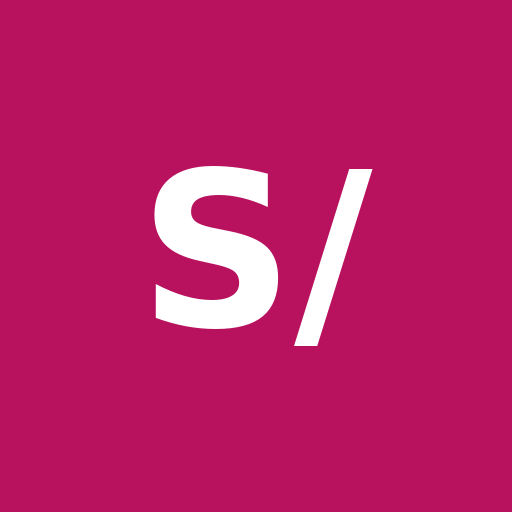
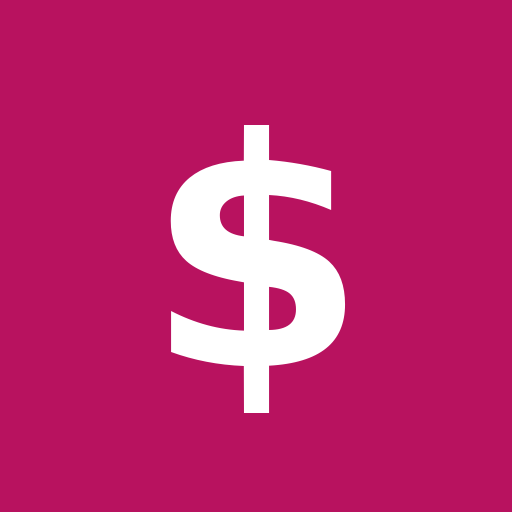
Add files via upload

Changed region(s): [[0.2812, 0.2188, 0.75, 0.8125]]

diff --git a/index.html b/index.html
@@ -320,7 +320,7 @@ input:focus,select:focus,textarea:focus{border-color:var(--accent);outline:0;box
 <div class="app">
   <header class="top">
     <div class="brand">
-      <span class="mark" aria-hidden="true">S/</span>
+      <span class="mark" aria-hidden="true">$</span>
       <div>
         <h1>Generador de Proformas</h1>
         <p class="tag">Para ventas por catálogo: Ésika, Cyzone, L'Bel y más</p>
@@ -344,10 +344,10 @@ input:focus,select:focus,textarea:focus{border-color:var(--accent);outline:0;box
     <div class="hi"><div><h2 id="hiName">¡Hola! 👋</h2><p class="hint">Qué bueno verte de nuevo</p></div><button class="avatar" data-tab="negocio" id="hiAv" aria-label="Mi negocio">S</button></div>
     <section class="panel sum"><h2 id="sumMonth">Resumen del mes</h2>
       <div class="sumrow"><span>Proformas creadas</span><strong id="sumN">0</strong></div>
-      <div class="sumrow"><span>Total cotizado</span><strong id="sumT">S/ 0.00</strong></div></section>
+      <div class="sumrow"><span>Total cotizado</span><strong id="sumT">$0</strong></div></section>
     <div class="hero"><h2>Belleza que te hace brillar</h2><p>Crea tus proformas de forma rápida y profesional.</p><button class="btn" data-tab="proforma">Crear proforma</button></div>
     <div class="quick"><button class="q" data-tab="catalogo"><i style="background:#ec407a"><svg viewBox="0 0 24 24" aria-hidden="true"><path d="M5 4h6a3 3 0 0 1 3 3v13a2 2 0 0 0-2-2H5zM19 4h-5v14"/></svg></i>Productos</button><button class="q" data-tab="historial"><i style="background:#26b5a0"><svg viewBox="0 0 24 24" aria-hidden="true"><circle cx="12" cy="12" r="9"/><path d="M12 7v5l3 2"/></svg></i>Mis proformas</button><button class="q" data-tab="clientes"><i style="background:#8e5bd6"><svg viewBox="0 0 24 24" aria-hidden="true"><circle cx="12" cy="8" r="4"/><path d="M4 21c0-4 4-6 8-6s8 2 8 6"/></svg></i>Clientes</button><button class="q" data-tab="negocio"><i style="background:#f5a623"><svg viewBox="0 0 24 24" aria-hidden="true"><circle cx="12" cy="12" r="3"/><path d="M12 3v3M12 18v3M3 12h3M18 12h3M5.6 5.6l2.1 2.1M16.3 16.3l2.1 2.1M18.4 5.6l-2.1 2.1M7.7 16.3l-2.1 2.1"/></svg></i>Ajustes</button></div>
-    <section class="panel"><h2>Marcas</h2><div class="brands"><button data-brandgo="Ésika">Ésika</button><button data-brandgo="Cyzone">Cyzone</button><button data-brandgo="L'Bel">L'Bel</button><button data-brandgo="Avon">Avon</button><button data-brandgo="Natura">Natura</button><button data-brandgo="Yanbal">Yanbal</button></div></section>
+    <section class="panel"><h2>Marcas</h2><div class="brands"><button data-brandgo="Ésika">Ésika</button><button data-brandgo="Cyzone">Cyzone</button><button data-brandgo="L'Bel">L'Bel</button><button data-brandgo="Avon">Avon</button><button data-brandgo="Natura">Natura</button></div></section>
     <section class="panel"><h2>¿Listo para generar tu proforma?</h2><p class="hint">Agrega productos, elige al cliente y descarga el PDF en pocos pasos.</p><button class="btn primary" data-tab="proforma">Empezar</button></section>
   </section>
   <section class="tabpane" id="tab-proforma" data-step="1" hidden>
@@ -371,7 +371,7 @@ input:focus,select:focus,textarea:focus{border-color:var(--accent);outline:0;box
           <div class="grid">
             <label class="field"><span>Nombre</span><input type="text" data-bind="draft.client.name" autocomplete="off"></label>
             <label class="field"><span>Celular (WhatsApp)</span><input type="tel" inputmode="tel" data-bind="draft.client.phone" placeholder="987654321"></label>
-            <label class="field"><span>DNI o RUC (opcional)</span><input type="text" inputmode="numeric" data-bind="draft.client.doc"></label>
+            <label class="field"><span>RUT (opcional)</span><input type="text" inputmode="text" data-bind="draft.client.doc"></label>
           </div>
           <label class="field"><span>Dirección o zona de entrega</span><input type="text" data-bind="draft.client.address"></label>
           <div class="row-end"><button class="btn sm" data-act="save-client">Guardar en mis clientes</button></div>
@@ -391,10 +391,10 @@ input:focus,select:focus,textarea:focus{border-color:var(--accent);outline:0;box
           <h2>Descuento, envío y notas</h2>
           <div class="grid">
             <label class="field"><span>Descuento general (%)</span><input type="number" min="0" max="100" step="0.5" inputmode="decimal" data-bind="draft.globalDisc" placeholder="0"></label>
-            <label class="field"><span>Envío o delivery (S/)</span><input type="number" min="0" step="0.5" inputmode="decimal" data-bind="draft.shipping" placeholder="0.00"></label>
-            <label class="field"><span>Adelanto recibido (S/)</span><input type="number" min="0" step="0.5" inputmode="decimal" data-bind="draft.deposit" placeholder="0.00"></label>
+            <label class="field"><span>Envío o delivery (CLP)</span><input type="number" min="0" step="1" inputmode="numeric" data-bind="draft.shipping" placeholder="0"></label>
+            <label class="field"><span>Adelanto recibido (CLP)</span><input type="number" min="0" step="1" inputmode="numeric" data-bind="draft.deposit" placeholder="0"></label>
           </div>
-          <label class="check"><input type="checkbox" data-bind="draft.igv"><span>Mostrar el IGV (18%) incluido en el total. Los precios de catálogo ya lo incluyen.</span></label>
+          <label class="check"><input type="checkbox" data-bind="draft.igv"><span>Mostrar el IVA (19%) incluido en el total. Los precios de catálogo ya lo incluyen.</span></label>
           <label class="field"><span>Notas para el cliente</span><textarea data-bind="draft.notes"></textarea></label>
         </section>
       </div>
@@ -416,7 +416,7 @@ input:focus,select:focus,textarea:focus{border-color:var(--accent);outline:0;box
       <button class="btn" data-tab="historial">Ver mis proformas</button>
       <button class="btn ghost" data-act="new">Nueva proforma</button></div>
     <div class="actions">
-      <div class="arow"><div class="total-chip"><span>Total a pagar</span><strong id="totalChip">S/ 0.00</strong></div>
+      <div class="arow"><div class="total-chip"><span>Total a pagar</span><strong id="totalChip">$0</strong></div>
         <button class="btn" data-go="back" id="btnBack" hidden>Atrás</button>
         <button class="btn primary" data-go="next" id="btnNext">Siguiente</button></div>
       <div class="btns" hidden><button data-act="save" id="btnSave"></button>
@@ -433,7 +433,7 @@ input:focus,select:focus,textarea:focus{border-color:var(--accent);outline:0;box
       <div class="grid">
         <label class="field"><span>Marca</span><input type="text" id="np-brand" list="brands" placeholder="Ésika"></label>
         <label class="field"><span>Página o código</span><input type="text" id="np-code" placeholder="Pág. 24"></label>
-        <label class="field"><span>Precio de catálogo (S/)</span><input type="number" id="np-price" min="0" step="0.01" inputmode="decimal" placeholder="0.00"></label>
+        <label class="field"><span>Precio de catálogo (CLP)</span><input type="number" id="np-price" min="0" step="1" inputmode="numeric" placeholder="0"></label>
       </div>
       <label class="field"><span>Producto</span><input type="text" id="np-name" placeholder="Nombre del producto"></label>
       <div class="row-end"><button class="btn primary" data-act="add-product">Agregar producto</button></div>
@@ -453,7 +453,7 @@ input:focus,select:focus,textarea:focus{border-color:var(--accent);outline:0;box
       <div class="grid">
         <label class="field"><span>Nombre</span><input type="text" id="nc-name"></label>
         <label class="field"><span>Celular (WhatsApp)</span><input type="tel" id="nc-phone" inputmode="tel"></label>
-        <label class="field"><span>DNI o RUC (opcional)</span><input type="text" id="nc-doc" inputmode="numeric"></label>
+        <label class="field"><span>RUT (opcional)</span><input type="text" id="nc-doc" inputmode="text"></label>
       </div>
       <label class="field"><span>Dirección o zona de entrega</span><input type="text" id="nc-address"></label>
       <div class="row-end"><button class="btn primary" data-act="add-client">Agregar cliente</button></div>
@@ -490,17 +490,17 @@ input:focus,select:focus,textarea:focus{border-color:var(--accent);outline:0;box
         <label class="field"><span>Nombre del negocio</span><input type="text" data-bind="seller.business" placeholder="Ej. Belleza con Ana"></label>
         <label class="field"><span>Tu nombre</span><input type="text" data-bind="seller.name"></label>
         <label class="field"><span>Celular</span><input type="tel" inputmode="tel" data-bind="seller.phone"></label>
-        <label class="field"><span>DNI o RUC (opcional)</span><input type="text" inputmode="numeric" data-bind="seller.doc"></label>
+        <label class="field"><span>RUT (opcional)</span><input type="text" inputmode="text" data-bind="seller.doc"></label>
       </div>
       <label class="field"><span>Dirección o zona de atención</span><input type="text" data-bind="seller.address"></label>
-      <label class="field"><span>Datos de pago</span><textarea data-bind="seller.payment" placeholder="Yape / Plin: 987 654 321 a nombre de…&#10;Cuenta de ahorros: …"></textarea></label>
+      <label class="field"><span>Datos de pago</span><textarea data-bind="seller.payment" placeholder="Transferencia: banco, tipo de cuenta, N.° de cuenta, RUT…&#10;Nombre del titular: …"></textarea></label>
     </section>
     <section class="panel">
       <h2>Valores para proformas nuevas</h2>
       <div class="grid">
         <label class="field"><span>Validez por defecto (días)</span><input type="number" min="0" step="1" inputmode="numeric" data-bind="prefs.validDays"></label>
       </div>
-      <label class="check"><input type="checkbox" data-bind="prefs.igv"><span>Mostrar el IGV incluido en las proformas nuevas</span></label>
+      <label class="check"><input type="checkbox" data-bind="prefs.igv"><span>Mostrar el IVA incluido en las proformas nuevas</span></label>
       <label class="field"><span>Notas por defecto</span><textarea data-bind="seller.notes"></textarea></label>
       <p class="hint">Estos valores se aplican a las proformas que crees desde ahora. Las que ya guardaste no cambian.</p>
     </section>
@@ -532,15 +532,15 @@ const $$=(s,r)=>Array.from((r||document).querySelectorAll(s));
 const esc=s=>String(s==null?'':s).replace(/[&<>"']/g,c=>({'&':'&amp;','<':'&lt;','>':'&gt;','"':'&quot;',"'":'&#39;'}[c]));
 const uid=()=>Date.now().toString(36)+Math.random().toString(36).slice(2,6);
 const clone=o=>JSON.parse(JSON.stringify(o));
-const nf=new Intl.NumberFormat('es-PE',{minimumFractionDigits:2,maximumFractionDigits:2});
-const money=n=>'S/ '+nf.format(n||0);
-const num=v=>{const n=parseFloat(v);return isFinite(n)?n:0;};
-const r2=n=>Math.round((n+Number.EPSILON)*100)/100;
+const nf=new Intl.NumberFormat('es-CL',{maximumFractionDigits:0});
+const money=n=>'$'+nf.format(Math.round(n||0));
+const num=v=>{let s=String(v==null?'':v).trim();if(/^\d{1,3}([.,]\d{3})+$/.test(s))s=s.replace(/[.,]/g,'');else s=s.replace(',','.');const n=parseFloat(s);return isFinite(n)?n:0;};
+const r2=n=>Math.round(n);
 const clamp=(n,a,b)=>Math.min(b,Math.max(a,n));
 const numLabel=n=>'PRO-'+String(n).padStart(4,'0');
 const getPath=(o,p)=>p.split('.').reduce((a,k)=>a==null?a:a[k],o);
 const setPath=(o,p,v)=>{const ks=p.split('.');const last=ks.pop();ks.reduce((a,k)=>a[k],o)[last]=v;};
-const BRANDS=['Ésika','Cyzone',"L'Bel",'Avon','Natura','Yanbal','Oriflame'];
+const BRANDS=['Ésika','Cyzone',"L'Bel",'Avon','Natura','Oriflame'];
 
 function todayStr(){const d=new Date();return d.getFullYear()+'-'+String(d.getMonth()+1).padStart(2,'0')+'-'+String(d.getDate()).padStart(2,'0');}
 function fmtDate(s){if(!s)return '';const p=s.split('-');return p.length===3?p[2]+'/'+p[1]+'/'+p[0]:s;}
@@ -562,13 +562,13 @@ function makeSample(){
     seller:{name:'',business:'',phone:'',doc:'',address:'',payment:'',notes:'Precios según el catálogo vigente de la campaña. Los productos se entregan al confirmar el pago.'},
     prefs:{validDays:'7',igv:false},
     products:[
-      P('Ésika','Pág. 24','Labial mate larga duración',24.9),
-      P('Ésika','Pág. 58','Perfume floral 50 ml',79.9),
-      P('Cyzone','Pág. 12','Base fluida acabado natural',32.9),
-      P('Cyzone','Pág. 40','Body splash frutal 200 ml',29.9),
-      P("L'Bel",'Pág. 76','Crema facial hidratante',59.9),
-      P("L'Bel",'Pág. 90','Desodorante roll-on 50 ml',14.9)],
-    clients:[{id:uid(),name:'Rosa Mendoza (ejemplo)',phone:'987654321',address:'Av. Javier Prado 1234, San Isidro',doc:''}],
+      P('Ésika','Pág. 24','Labial mate larga duración',6990),
+      P('Ésika','Pág. 58','Perfume floral 50 ml',19990),
+      P('Cyzone','Pág. 12','Base fluida acabado natural',8490),
+      P('Cyzone','Pág. 40','Body splash frutal 200 ml',7490),
+      P("L'Bel",'Pág. 76','Crema facial hidratante',14990),
+      P("L'Bel",'Pág. 90','Desodorante roll-on 50 ml',3990)],
+    clients:[{id:uid(),name:'Rosa Mendoza (ejemplo)',phone:'912345678',address:'Av. Providencia 1234, Providencia',doc:''}],
     draft:null};
   state=st;
   const d=blankDraft();
@@ -576,7 +576,7 @@ function makeSample(){
   d.client=Object.assign({},st.clients[0]);
   const it=(p,q)=>({id:uid(),pid:p.id,brand:p.brand,code:p.code,name:p.name,qty:String(q),price:String(p.price),disc:''});
   d.items=[it(st.products[0],2),it(st.products[1],1),it(st.products[2],1)];
-  d.shipping='5';
+  d.shipping='2500';
   st.draft=d;
   return st;
 }
@@ -615,7 +615,7 @@ function calc(p){
   const total=r2(subtotal-discount+ship);
   const deposit=Math.min(total,r2(Math.max(0,num(p.deposit))));
   const balance=r2(total-deposit);
-  const igvBase=p.igv?r2(total/1.18):0;
+  const igvBase=p.igv?r2(total/1.19):0;
   const igvAmt=p.igv?r2(total-igvBase):0;
   const savings=r2(gross-subtotal+discount);
   return {lines,subtotal,discount,gd,ship,total,deposit,balance,igvBase,igvAmt,savings};
@@ -695,9 +695,9 @@ function itemRow(it,i){
     '<label class="f f-brand"><span>Marca</span><input type="text" list="brands" data-f="brand" value="'+esc(it.brand)+'"></label>'+
     '<label class="f f-code"><span>Página o código</span><input type="text" data-f="code" value="'+esc(it.code)+'"></label>'+
     '<label class="f f-qty"><span>Cantidad</span><input type="number" min="0" step="1" inputmode="numeric" data-f="qty" value="'+esc(it.qty)+'"></label>'+
-    '<label class="f f-price"><span>Precio (S/)</span><input type="number" min="0" step="0.01" inputmode="decimal" data-f="price" value="'+esc(it.price)+'"></label>'+
+    '<label class="f f-price"><span>Precio (CLP)</span><input type="number" min="0" step="1" inputmode="numeric" data-f="price" value="'+esc(it.price)+'"></label>'+
     '<label class="f f-disc"><span>Descuento %</span><input type="number" min="0" max="100" step="0.5" inputmode="decimal" data-f="disc" value="'+esc(it.disc)+'" placeholder="0"></label>'+
-    '<div class="f f-total"><span>Importe</span><output data-total>S/ 0.00</output></div>'+
+    '<div class="f f-total"><span>Importe</span><output data-total>$0</output></div>'+
   '</div>';
 }
 function renderItems(){
@@ -733,7 +733,7 @@ function renderCatalog(){
       '<label class="f c6"><span>Producto</span><input type="text" data-pf="name" value="'+esc(p.name)+'"></label>'+
       '<label class="f c2"><span>Marca</span><input type="text" list="brands" data-pf="brand" value="'+esc(p.brand)+'"></label>'+
       '<label class="f c2"><span>Página o código</span><input type="text" data-pf="code" value="'+esc(p.code)+'"></label>'+
-      '<label class="f c2"><span>Precio (S/)</span><input type="number" min="0" step="0.01" inputmode="decimal" data-pf="price" value="'+esc(p.price)+'"></label>'+
+      '<label class="f c2"><span>Precio (CLP)</span><input type="number" min="0" step="1" inputmode="numeric" data-pf="price" value="'+esc(p.price)+'"></label>'+
       '<div class="acts"><button class="btn sm primary" data-act="cat-to-proforma">Agregar a la proforma</button><button class="btn sm danger" data-act="del-product">Eliminar</button></div>'+
     '</div>').join(''):
     '<div class="empty-note">'+(state.products.length?'Ningún producto coincide con el filtro.':'Aún no guardaste productos. Agrégalos con el formulario de arriba.')+'</div>';
@@ -745,7 +745,7 @@ function renderClients(){
     '<div class="rowcard" data-id="'+esc(c.id)+'">'+
       '<label class="f c3"><span>Nombre</span><input type="text" data-cf="name" value="'+esc(c.name)+'"></label>'+
       '<label class="f c3"><span>Celular</span><input type="tel" inputmode="tel" data-cf="phone" value="'+esc(c.phone)+'"></label>'+
-      '<label class="f c3"><span>DNI o RUC</span><input type="text" inputmode="numeric" data-cf="doc" value="'+esc(c.doc)+'"></label>'+
+      '<label class="f c3"><span>RUT</span><input type="text" inputmode="text" data-cf="doc" value="'+esc(c.doc)+'"></label>'+
       '<label class="f c3"><span>Dirección o zona</span><input type="text" data-cf="address" value="'+esc(c.address)+'"></label>'+
       '<div class="acts"><button class="btn sm primary" data-act="use-client">Usar en la proforma</button><button class="btn sm danger" data-act="del-client">Eliminar</button></div>'+
     '</div>').join(''):
@@ -767,7 +767,7 @@ function paperHTML(p,c){
   const num_=numLabel(p.number||state.counter);
   const until=addDays(p.date,Math.max(0,parseInt(p.validDays,10)||0));
   const ph=(v,f)=>v?esc(v):'<span class="ph">'+f+'</span>';
-  const contact=[s.name,s.phone,s.doc?'DNI/RUC '+s.doc:''].filter(Boolean).map(esc).join(' · ');
+  const contact=[s.name,s.phone,s.doc?'RUT '+s.doc:''].filter(Boolean).map(esc).join(' · ');
   const BR='<span class="b1">ésika</span><span class="b2">cyzone</span><span class="b3">L\'BEL</span>';
   const BR2=BR+'<span class="b4">AVON</span><span class="b5">natura</span>';
   const rows=p.items.length?p.items.map((it,i)=>{
@@ -779,7 +779,7 @@ function paperHTML(p,c){
   if(c.discount>0)tot+='<div><span>Descuento ('+c.gd+'%)</span><span>-'+money(c.discount)+'</span></div>';
   if(c.ship>0)tot+='<div><span>Envío</span><span>'+money(c.ship)+'</span></div>';
   tot+='<div class="big"><span>Total</span><span>'+money(c.total)+'</span></div>';
-  if(p.igv)tot+='<div class="m"><span>Valor de venta</span><span>'+money(c.igvBase)+'</span></div><div class="m"><span>IGV (18%) incluido</span><span>'+money(c.igvAmt)+'</span></div>';
+  if(p.igv)tot+='<div class="m"><span>Valor neto</span><span>'+money(c.igvBase)+'</span></div><div class="m"><span>IVA (19%) incluido</span><span>'+money(c.igvAmt)+'</span></div>';
   if(c.deposit>0)tot+='<div><span>Adelanto</span><span>-'+money(c.deposit)+'</span></div><div class="bal"><span>Saldo por pagar</span><span>'+money(c.balance)+'</span></div>';
   const cl=p.client;
   return '<div class="q-head"><div class="q-l"><div class="q-title">'+(s.business?esc(s.business):'Tu belleza en una proforma')+'</div><div class="q-brands">'+BR+'</div>'+
@@ -830,7 +830,7 @@ function updateTotals(){
   $('#paper').innerHTML=paperHTML(p,c);
   const wa=$('#waLink');
   let d=String(p.client.phone||'').replace(/\D/g,'');
-  if(d.length===9)d='51'+d;
+  if(d.length===9)d='56'+d;
   if(d.length>=10){wa.hidden=false;wa.href='https://wa.me/'+d+'?text='+encodeURIComponent(waText(p,c));}
   else{wa.hidden=true;wa.removeAttribute('href');}
 }
@@ -905,7 +905,7 @@ function makePdf(p){
   [['ésika',INK],['cyzone',PINK],["L'BEL",INK]].forEach(b=>{doc.setFont('helvetica','bold');doc.setFontSize(11);doc.setTextColor.apply(doc,b[1]);doc.text(b[0],bx,by);bx+=doc.getTextWidth(b[0])+16;});
   doc.setFont('helvetica','normal');doc.setFontSize(9);doc.setTextColor.apply(doc,MUTED);
   let ly=by+16;
-  const contact=[s.name,s.phone,s.doc?'DNI/RUC '+s.doc:''].filter(Boolean).join('   |   ');
+  const contact=[s.name,s.phone,s.doc?'RUT '+s.doc:''].filter(Boolean).join('   |   ');
   if(contact){doc.text(doc.splitTextToSize(contact,W-2*M-150),M,ly);ly+=12;}
   if(s.address){doc.text(doc.splitTextToSize(s.address,W-2*M-150),M,ly);ly+=12;}
   const until=addDays(p.date,Math.max(0,parseInt(p.validDays,10)||0));
@@ -919,7 +919,7 @@ function makePdf(p){
   doc.setFont('helvetica','bold');doc.setFontSize(10);doc.setTextColor.apply(doc,INK);doc.text('Cliente:',M,y);y+=13;
   doc.setFontSize(11);doc.text(p.client.name||'-',M,y);y+=13;
   doc.setFont('helvetica','normal');doc.setFontSize(9.5);
-  [p.client.doc?'DNI/RUC: '+p.client.doc:'',p.client.phone?'Cel: '+p.client.phone:'',p.client.address?'Dirección: '+p.client.address:''].filter(Boolean).forEach(t=>{doc.text(doc.splitTextToSize(t,W-2*M),M,y);y+=12;});
+  [p.client.doc?'RUT: '+p.client.doc:'',p.client.phone?'Cel: '+p.client.phone:'',p.client.address?'Dirección: '+p.client.address:''].filter(Boolean).forEach(t=>{doc.text(doc.splitTextToSize(t,W-2*M),M,y);y+=12;});
   y+=8;
   doc.autoTable({
     startY:y,margin:{left:M,right:M},theme:'grid',
@@ -941,7 +941,7 @@ function makePdf(p){
   if(c.discount>0)rows.push(['Descuento ('+c.gd+'%)','-'+money(c.discount),0]);
   if(c.ship>0)rows.push(['Envío',money(c.ship),0]);
   rows.push(['TOTAL',money(c.total),2]);
-  if(p.igv){rows.push(['Valor de venta',money(c.igvBase),3]);rows.push(['IGV (18%) incluido',money(c.igvAmt),3]);}
+  if(p.igv){rows.push(['Valor neto',money(c.igvBase),3]);rows.push(['IVA (19%) incluido',money(c.igvAmt),3]);}
   if(c.deposit>0){rows.push(['Adelanto','-'+money(c.deposit),0]);rows.push(['Saldo por pagar',money(c.balance),1]);}
   ensure(rows.length*18+30);
   const X=W-M-200;
@@ -1030,7 +1030,7 @@ async function sharePdf(){
     const f=await pdfFile();if(!f)return;
     if(navigator.canShare&&navigator.canShare({files:[f]})){await navigator.share({files:[f],title:f.name});return;}
     saveBlob(f,f.name);
-    let d=String(state.draft.client.phone||'').replace(/\D/g,'');if(d.length===9)d='51'+d;
+    let d=String(state.draft.client.phone||'').replace(/\D/g,'');if(d.length===9)d='56'+d;
     toast('PDF descargado. Adjúntalo en el chat de WhatsApp.');
     if(d.length>=10)window.open('https://wa.me/'+d,'_blank');
   }catch(e){if(e&&e.name==='AbortError')return;toast('No se pudo compartir. Prueba con Descargar PDF.');}
@@ -1198,7 +1198,10 @@ document.addEventListener('click',e=>{
     if(k==='wa'){const w=$('#waLink');if(!w.hidden)window.open(w.href,'_blank');else say('Agrega el celular del cliente para abrir WhatsApp.');}
     return;}
   const b=e.target.closest('[data-brandgo]');
-  if(b){$('.tab[data-tab="catalogo"]').click();$$('.chip[data-brand]').forEach(c=>{if(c.dataset.brand===b.dataset.brandgo)c.click();});return;}
+  if(b){const br=b.dataset.brandgo;$('.tab[data-tab="catalogo"]').click();
+    const f=$$('.chip[data-brand]');const all=f.find(c=>c.dataset.brand==='');if(all)all.click();
+    $$('.chip[data-brand]').forEach(c=>{if(c.dataset.brand===br)c.click();});
+    $('#np-brand').value=br;setTimeout(()=>{window.scrollTo(0,0);$('#np-code').focus();},60);return;}
   const a=e.target.closest('[data-act]'),act=a&&a.dataset.act;
   if(act==='new'||act==='open-hist'||act==='dup-hist')go(1);
   const t=e.target.closest('[data-tab]');if(t&&t.dataset.tab==='proforma'&&step===4)go(1);
@@ -1219,9 +1222,9 @@ function paint(){
   let hs=[];try{hs=JSON.parse(localStorage.getItem('pf-history')||'[]');}catch(x){}
   const d=new Date(),k=d.getFullYear()+'-'+String(d.getMonth()+1).padStart(2,'0');
   const m=hs.filter(x=>String(x.date).startsWith(k));
-  const mes=d.toLocaleDateString('es-PE',{month:'long',year:'numeric'});$('#sumMonth').textContent=mes.charAt(0).toUpperCase()+mes.slice(1);
+  const mes=d.toLocaleDateString('es-CL',{month:'long',year:'numeric'});$('#sumMonth').textContent=mes.charAt(0).toUpperCase()+mes.slice(1);
   $('#sumN').textContent=m.length;
-  $('#sumT').textContent='S/ '+m.reduce((a,x)=>a+(+x.total||0),0).toLocaleString('es-PE',{minimumFractionDigits:2,maximumFractionDigits:2});
+  $('#sumT').textContent='$'+Math.round(m.reduce((a,x)=>a+(+x.total||0),0)).toLocaleString('es-CL');
 }
 document.addEventListener('click',()=>setTimeout(paint,80));
 document.addEventListener('input',ev=>{if(ev.target.id==='b-seller-name')paint();});

diff --git a/sw.js b/sw.js
@@ -1,4 +1,4 @@
-const V = 'proformas-v10';
+const V = 'proformas-v11';
 const SHELL = ['./', 'index.html', 'manifest.webmanifest', 'icon-192.png', 'icon-512.png', 'apple-touch-icon.png'];
 const EXTERNOS = ['cdnjs.cloudflare.com', 'fonts.googleapis.com', 'fonts.gstatic.com'];
 
